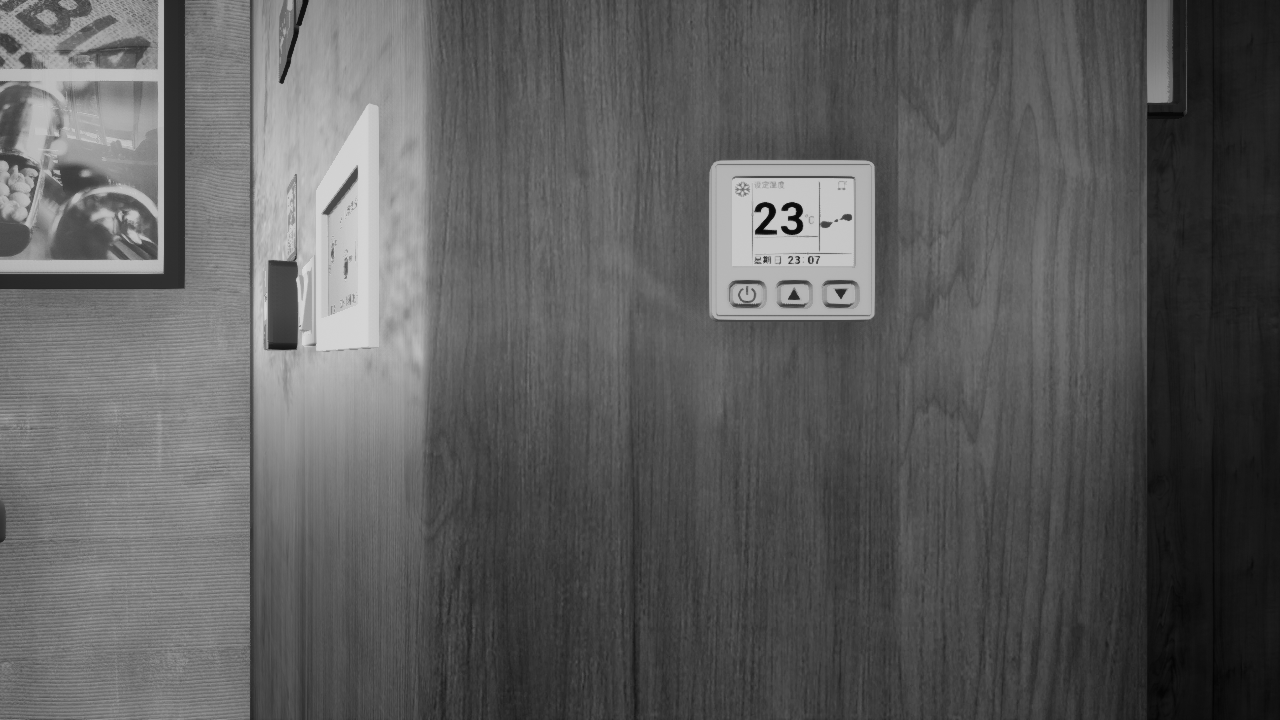
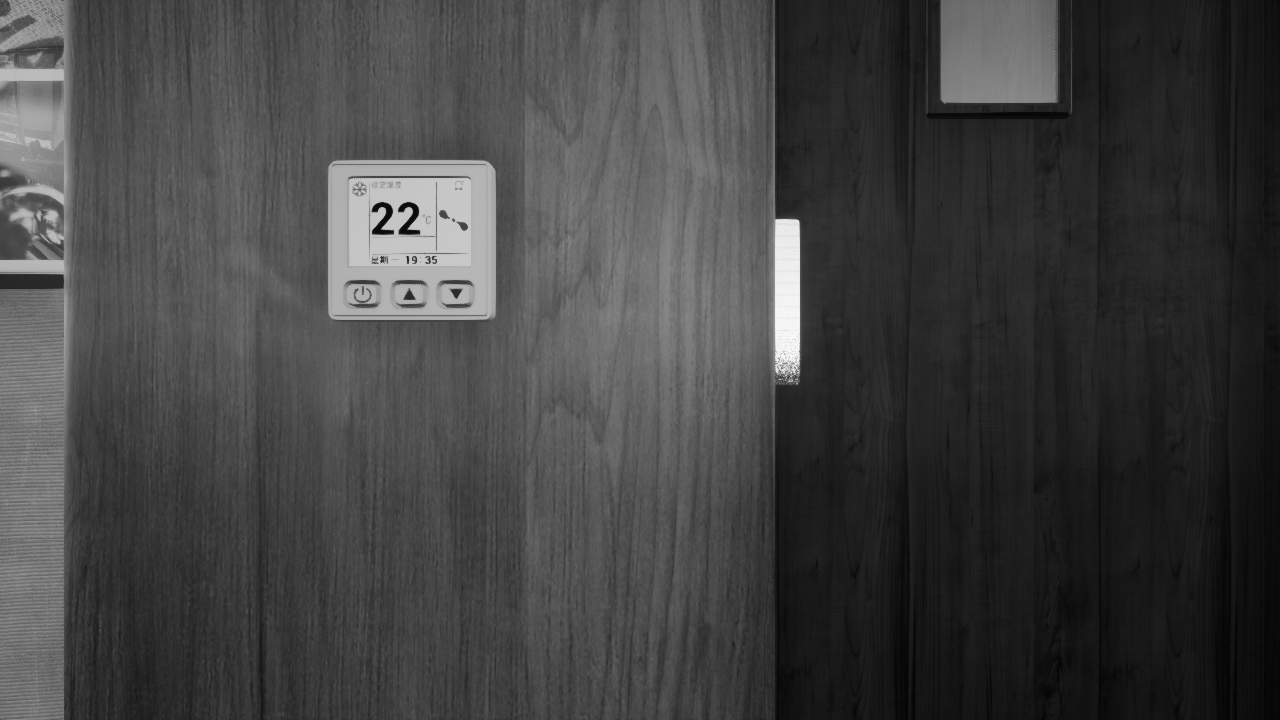
手指握起，导航点修改，对于27的识别有问题但不影响。改用全部左手

diff --git a/VLM_container/test.py b/VLM_container/test.py
@@ -7,7 +7,7 @@ scene_manager = SceneManager()
 map_id = 11    # 地图编号
 scene_num = 1  # 场景数量
 
-print('------------ 初始化加载场景 ------------')
+print('-------------- 初始化加载场景 --------------')
 scene_manager.Init()
 scene_manager.AcquireAvailableMaps()
 scene_manager.SetWorld(map_id, scene_num)
@@ -29,9 +29,9 @@ class Conditioner():
         def __init__(self) -> None:
                 self.work_state=False
                 self.temperature = 25
-                #减、加、开关
-                self.key=[(300.50,-137.499,111.0),(300.50,-139.999,111.0),(300.50,-142.4999,111.0)]
-                self.delta_collision = 0.01
+                #开关\加\减、111
+                self.key=[(300.00,-142.4999,109.0),(300.00,-139.999,109.0),(300.00,-137.0,109.0)]
+                self.delta_collision = 0.3
 
         def get_temp_vision(self):
                 camera = CameraController(scene_manager)
@@ -43,82 +43,75 @@ class Conditioner():
                 """cv数字识别"""
                 numreader = ReadNumber()
                 numreader.get_template()
-                bin=numreader.preprocess_image(np_img)
-                cv2.imwrite("C:\\Users\\12245\\Documents\\Unreal Projects\\HarixSim2\\python\\DATA_Robot\\VLM_container\\bina.png",bin)
-                if numreader.detect_digits():
-                        self.temperature=numreader.detect_digits()
-                
+                numreader.preprocess_image(np_img)
+                num_see = numreader.detect_digits()
+                if num_see:
+                        self.temperature=num_see
+                        print("----I see air condition 's temprature: ",self.temperature,"℃ ----")
+                        return self.temperature
                 
         def press_buttom(self,key_id):
                 #按上开关
-                print(f"按下按键{key_id}开始")
+                # print(f"按下按键{key_id}开始")
                 joint.reset_joints()
                 x,y,z = self.key[key_id]
-                time.sleep(5.0)
-                #按下
-                if key_id == 0:
-                        joint.ik_control_right_hand(x,y,z+self.delta_collision)
-                else:
-                        joint.ik_control_left_hand(x,y,z+self.delta_collision)
-
-                time.sleep(5.0)
+                """都用左手"""
+                finger_value=[-6, 0, 45, 45, 45, 0, 0, 0, 0, 0]
+                joint.rotate_fingers(finger_value)
+                joint.ik_control_left_hand(x,y,z+self.delta_collision)
+                time.sleep(3.0)
+                """左边2个用左手,右边用右手"""
                 #收回手臂防止二次触碰
-                if key_id == 2:
-                        joint.reset_joints()
-                        time.sleep(5.0)
-                elif key_id ==1:
-                       joint.reset_joints()
-                #        joint.ik_control_left_hand(\
-                        # x,y,z-5*self.delta_collision)
-                       time.sleep(5.0)
-                else:
-                        joint.reset_joints()
-                        # joint.ik_control_right_hand(\
-                        # x,y,z-5*self.delta_collision)
-                        time.sleep(5.0)
-                print(f"按下按键{key_id}结束")
+                """都用左手"""
+                joint.ik_control_left_hand(\
+                x,y,z-2*self.delta_collision)
+                time.sleep(3.0)
+
+                # print(f"按下按键{key_id}结束")
+                joint.reset_joints()
+                time.sleep(3)
                 return True
 
         def turn_on_container(self):
                 #按上开关 
                 if self.work_state == False:
-                        if self.press_buttom(2):
+                        if self.press_buttom(0):
                                 self.work_state = True
                         self.get_temp_vision()
-                        print(f"空调为关闭状态，现打开空调,温度为{self.temperature}℃")
-                else : print("空调已经为开启状态")
+                        print(f"####打开空调,温度为{self.temperature}℃")
+                else : print("####空调已经为开启状态")
                 return True
 
         def turn_off_container(self):
                 #按上开关 
                 if self.work_state == True:
-                        if self.press_buttom(2):
+                        if self.press_buttom(0):
                                 self.work_state = True
-                        print("空调为打开状态，现已关闭")
-                else : print("空调已经为关闭状态")
+                        print("####空调为打开状态，现已关闭")
+                else : print("####空调已经为关闭状态")
                 return True
 
         def Turn_up_temperature(self,temp=1):
                 #调高温度
-                print("调高温度开始执行")
+                print("--------------调高温度开始执行--------------")
                 for i in range(temp):
                         self.turn_on_container()
                         self.press_buttom(1)
-                print(f"调高温度{temp}℃")
+                # joint.reset_joints()
+                print(f"-------------调高温度{temp}℃-------------")
                 self.temperature += temp
-                self.get_temp_vision()
                 return True
                 #可以加视觉数字检测判断温度
 
         def Turn_dwon_temperature(self,temp=1):
                 #降低温度
-                print("降低温度开始执行")
+                print("--------------降低温度开始执行--------------")
                 for i in range(temp):
                         self.turn_on_container()
-                        self.press_buttom(0)
-                print(f"降低温度{temp}℃")
+                        self.press_buttom(2)
+                # joint.reset_joints()
+                print(f"-------------降低温度{temp}℃-------------") 
                 self.temperature -= temp
-                self.get_temp_vision()
                 return True
                 #可以加视觉数字检测判断温度
 
@@ -130,17 +123,20 @@ class Conditioner():
                                 # delta=self.get_temp_vision()-temp
                                 delta=self.temperature-temp
                                 self.Turn_dwon_temperature(delta)
-                                # self.temperature=self.get_temp_vision()
-                                # print("I see temp is",self.get_temp_vision())
+                                joint.reset_joints()
+                                time.sleep(3)
+                                self.get_temp_vision()
+                                
                 elif temp>self.temperature:
-                        print("----I think temperature now is",self.temperature)
+                        print("----I think temperature now is",self.temperature," ----")
                         while self.temperature!=temp:
-                                # delta=temp-self.get_temp_vision()
                                 delta=temp-self.temperature
                                 self.Turn_up_temperature(delta)
-                                # self.temperature=self.get_temp_vision()
-                                # print("I see temp is",self.get_temp_vision())
-                # else:print(f"alrady in {self.get_temp_vision()} ℃")
+                                joint.reset_joints()
+                                time.sleep(3)
+                                self.get_temp_vision()
+                else :print(f"####already in {temp} ℃")
+
                       
 
 import utils
@@ -170,13 +166,13 @@ def input():
 if __name__ == "__main__"  :
     nav = NavigationController(scene_manager)
     nav_threshhold = 10
-    nav.navigate_to_limit(250.0,-148.0,0,-1,0)
+    nav.navigate_to_limit(250.0,-128.0,0,-1,0)
 
     conditioner = Conditioner()
     conditioner.turn_on_container()
 #     conditioner.get_temp_vision()
-    conditioner.set_temperature(27)
-    print("开始设置23度")
-    conditioner.set_temperature(23)
-    # # time.sleep(5)
+#     conditioner.set_temperature(28)
+    print("开始设置22度")
+    conditioner.set_temperature(22)
+    # time.sleep(5)
     # conditioner.Turn_up_temperature(3)

diff --git a/VLM_container/sobel_number_detect.py b/VLM_container/sobel_number_detect.py
@@ -34,16 +34,18 @@ class ReadNumber:
             self.digits[i] = roi
         return  self.digits
 
-    def preprocess_image(self,img):
+    def preprocess_image(self,img):#
+        # img=cv2.imread("C:\\Users\\12245\\Documents\\Unreal Projects\\HarixSim2\\python\\DATA_Robot\\VLM_container\\gray_instance.png")
         gray = cv2.cvtColor(img, cv2.COLOR_RGB2GRAY)
         # cv_show('gray',gray)
         cv2.imwrite("C:\\Users\\12245\\Documents\\Unreal Projects\\HarixSim2\\python\\DATA_Robot\\VLM_container\\gray_instance.png",gray)
 
-        x1, y1 = 751, 200
-        x2, y2 = 804, 237
+        x1, y1 = 370, 201
+        x2, y2 = 421, 236
         # 通过切片操作进行图像裁剪,抠出空调板
         cropped_image = gray[y1:y2, x1:x2]
         self.binary_image = cv2.threshold(cropped_image, 125, 150, cv2.THRESH_BINARY_INV)[1]
+        cv2.imwrite("C:\\Users\\12245\\Documents\\Unreal Projects\\HarixSim2\\python\\DATA_Robot\\VLM_container\\bina.png",self.binary_image)
         return self.binary_image
 
     def detect_digits(self):
@@ -97,8 +99,13 @@ class ReadNumber:
             # print("output-numper:",output)
             number_str = ''.join(output)  # 将列表中的字符串元素连接起来
             self.number = int(number_str)  # 将结果字符串转换为整数
-            print("---I see air condition 's temprature: ",self.number,"℃---")
+            # if self.number == None:
+            #     """20-30间只有27识别不出……"""
+            #     self.number = 27
+            # print("----I see air condition 's temprature: ",self.number,"℃ ----")
             return self.number
 
-
-
+if __name__ == "__main__":
+    num_reader=ReadNumber()
+    num_reader.preprocess_image()
+    num_reader.detect_digits()
